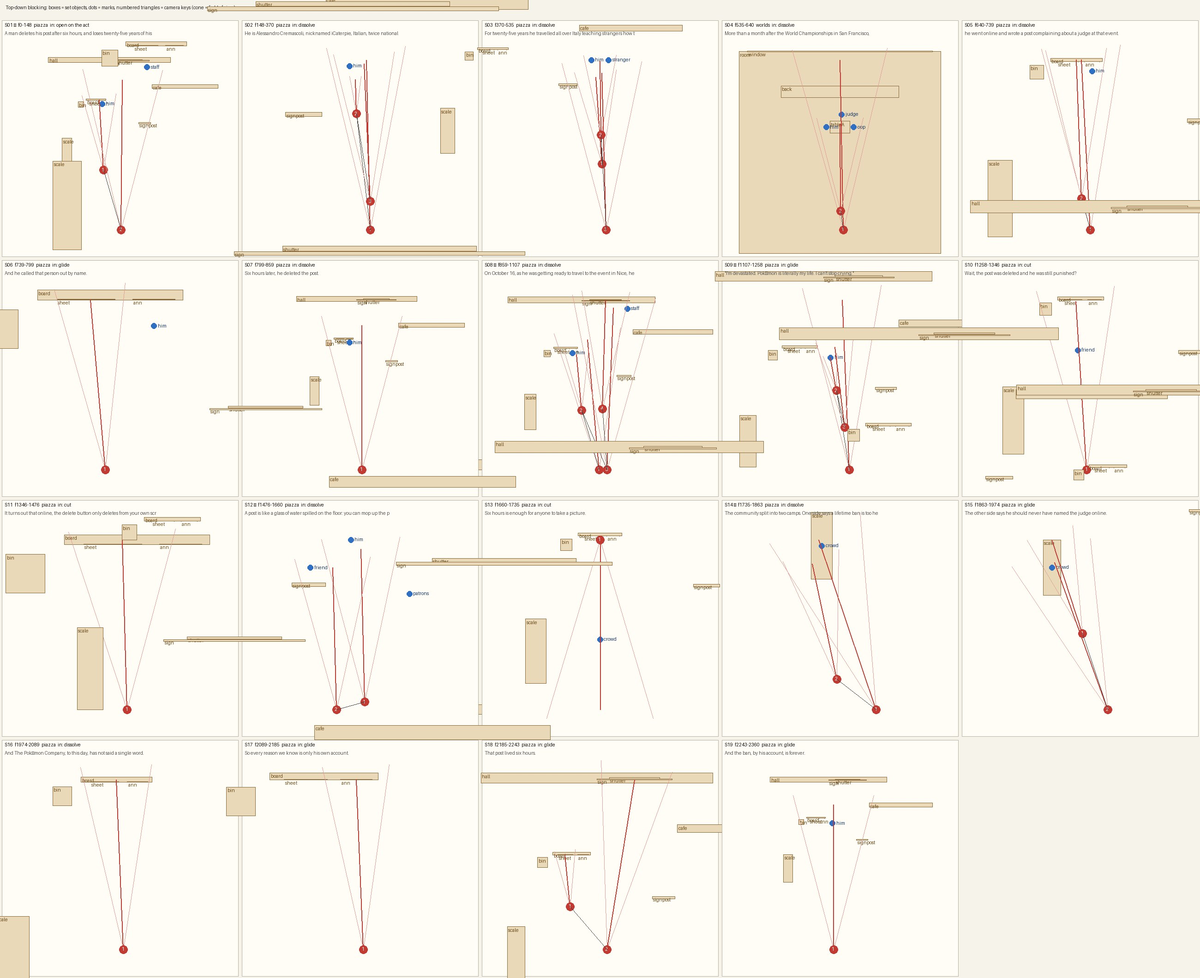
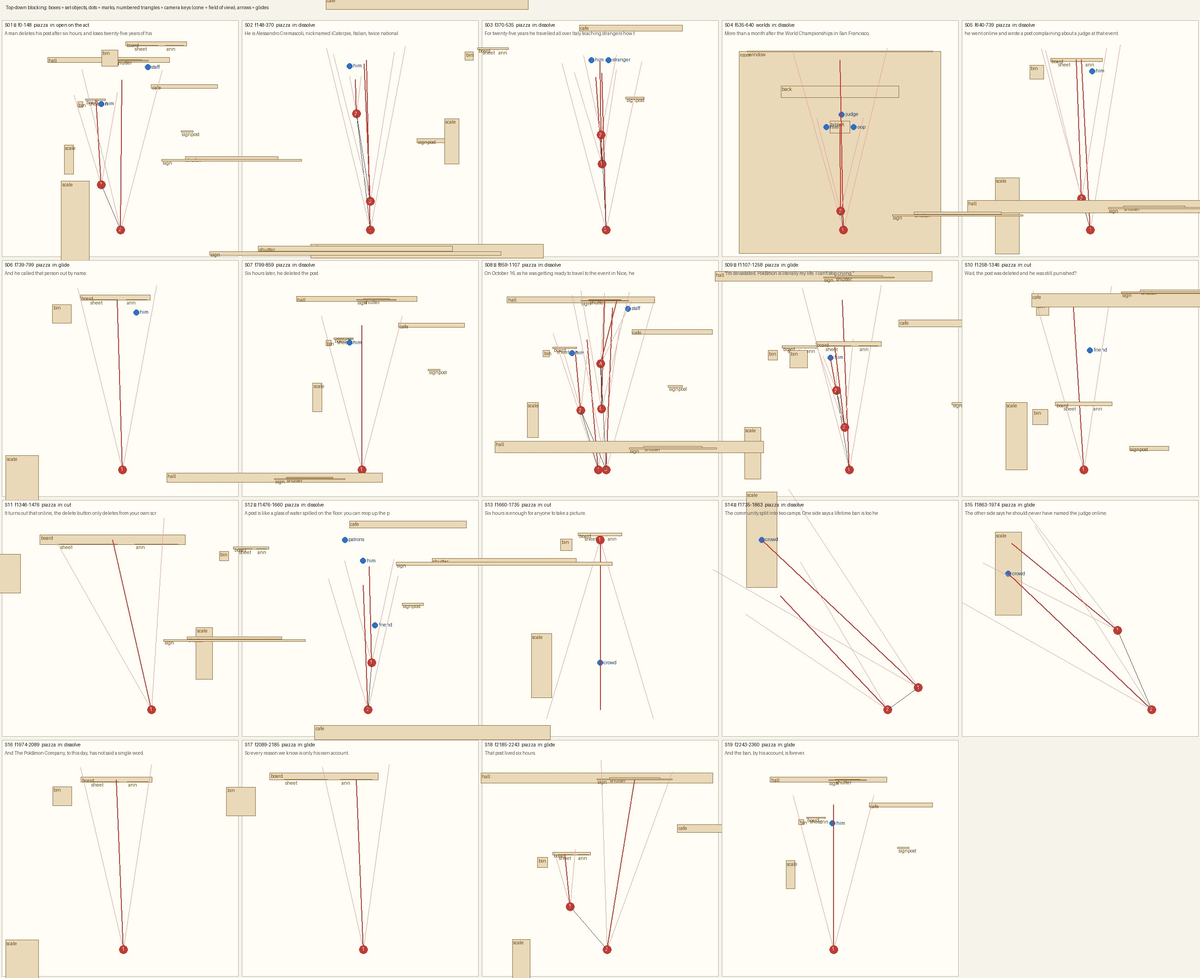
iCaterpie reel v1: sweep fixes (S06 step-aside, unlit paper/signs, padlock close-up, café gag re-staged, scale re-blocked, sun behind the lens, sharper board), notes, CLAUDE.md row

diff --git a/src/videos/caterpie/cast.ts b/src/videos/caterpie/cast.ts
@@ -466,7 +466,7 @@ const cafe3 = (out: Stage, cam: CamInfo, f: number) => {
 // S12: the glass, the puddle, the friend's wet prints, the patrons pointing
 import { glassAt, splashAt } from "./physics";
 const T3 = PZ.t3, PAT: [Who, V3][] = [["pat1", Pm(T3[0] - 0.5, 0, T3[1])], ["pat2", Pm(T3[0] + 0.5, 0, T3[1])]];
-const WALKA = (): V3 => Pm(5.3, 0, -1.95), WALKB = (): V3 => Pm(3.7, 0, 0.3);
+const WALKA = (): V3 => Pm(5.3, 0, -1.95), WALKB = (): V3 => Pm(4.3, 0, 0.3);
 const cafe12 = (out: Stage, cam: CamInfo, f: number) => {
   const sp = splashAt(), Pd = Pm(sp.p[0], 0.004, sp.p[2]);
   // the puddle: grows after the splash, shrinks under the napkin
@@ -507,7 +507,7 @@ const cafe12 = (out: Stage, cam: CamInfo, f: number) => {
     const tStep = STEP12 + (i * 0.38 / L2) * (WALK12[1] - STEP12); if (f < tStep) break;
     const fade = 1 - ramp(f - tStep, 80, 125); if (fade <= 0.02) continue;
     const sx = (i % 2 ? 0.08 : -0.08), q: V3 = [M[0] + ux * i * 0.38 - uz * sx, 0.003, M[2] + uz * i * 0.38 + ux * sx];
-    flat(out, `wet${i % 2}${Math.round(fade * 6)}`, (pp) => { pp.g.globalAlpha = fade; art2.wetPrint(pp); pp.g.globalAlpha = 1; }, q, 0.2, Math.atan2(ux, uz), 128, 128, 0.13);
+    flat(out, `wet${i % 2}${Math.round(fade * 6)}`, (pp) => { pp.g.globalAlpha = fade; art2.wetPrint(pp); pp.g.globalAlpha = 1; }, q, 0.3, Math.atan2(ux, uz), 128, 128, 0.2);
   }
   // the patrons at T2: grin, look down at the prints, point at the friend
   PAT.forEach(([who, Pp], i) => {

diff --git a/src/videos/caterpie/sets.ts b/src/videos/caterpie/sets.ts
@@ -497,7 +497,7 @@ export const buildSets = (root: THREE.Object3D): Sets => {
   { mesh(new THREE.BoxGeometry(0.6, 0.42, 0.22), [C("#a82a32"), C("#a82a32"), C("#a82a32"), C("#a82a32"), lamC(sideT), lamC(sideT)], suitcase, 0, 0.25, 0);
     mesh(new THREE.BoxGeometry(0.03, 0.34, 0.03), C("#2a2c33"), suitcase, -0.2, 0.62, 0); mesh(new THREE.BoxGeometry(0.03, 0.34, 0.03), C("#2a2c33"), suitcase, 0.2, 0.62, 0); mesh(new THREE.BoxGeometry(0.44, 0.03, 0.04), C("#2a2c33"), suitcase, 0, 0.79, 0);
     for (const x of [-0.24, 0.24]) mesh(new THREE.CylinderGeometry(0.04, 0.04, 0.03, 14), C("#1d1b22"), suitcase, x, 0.04, -0.09).rotation.x = Math.PI / 2; }
-  const tag = mesh(new THREE.PlaneGeometry(0.15, 0.09), tagM, suitcase, 0.36, 0.62, 0.0); tag.castShadow = false; (tag.material as THREE.Material).side = THREE.DoubleSide;
+  const tag = mesh(new THREE.PlaneGeometry(0.15, 0.09), tagM, suitcase, 0.27, 0.62, 0.115); tag.castShadow = false; (tag.material as THREE.Material).side = THREE.DoubleSide;
   // the water glass (S12, a rigid body), the espresso cup, the two trophies on T1
   const glass = mesh(new THREE.CylinderGeometry(0.04, 0.034, 0.13, 18), new THREE.MeshLambertMaterial({ color: "#bfe6ff" }), pz, 0, 0, 0); glass.castShadow = false;
   mesh(new THREE.CylinderGeometry(0.036, 0.036, 0.004, 18), new THREE.MeshLambertMaterial({ color: "#58a8f0" }), glass, 0, 0.03, 0).name = "water";

diff --git a/src/videos/caterpie/art2.ts b/src/videos/caterpie/art2.ts
@@ -207,7 +207,7 @@ export const puddle = (p: Pen) => {
   g.fillStyle = gr; g.beginPath(); for (let i = 0; i <= 24; i++) { const a = (i / 24) * Math.PI * 2, r = 112 + 12 * Math.sin(i * 2.7); g.lineTo(128 + Math.cos(a) * r, 128 + Math.sin(a) * r); } g.fill();
   g.fillStyle = "rgba(255,255,255,0.7)"; g.beginPath(); g.ellipse(96, 96, 30, 10, -0.5, 0, 7); g.fill();
 };
-export const wetPrint = (p: Pen) => { const g = p.g; g.fillStyle = "rgba(60,110,190,0.75)"; g.beginPath(); g.ellipse(64, 64, 40, 26, 0, 0, 7); g.fill(); g.fillStyle = "rgba(160,210,255,0.6)"; g.beginPath(); g.ellipse(52, 56, 12, 6, 0, 0, 7); g.fill(); };
+export const wetPrint = (p: Pen) => { const g = p.g; g.fillStyle = "rgba(40,95,200,0.92)"; g.beginPath(); g.ellipse(64, 64, 40, 26, 0, 0, 7); g.fill(); g.fillStyle = "rgba(160,210,255,0.6)"; g.beginPath(); g.ellipse(52, 56, 12, 6, 0, 0, 7); g.fill(); };
 export const tearDrop = (p: Pen) => { p.poly([[32, 4], [52, 40], [44, 58], [20, 58], [12, 40]], "#7fc4ff", 4); p.dot(26, 40, 5, "#ffffff"); };
 export const wetDot = (p: Pen) => { const g = p.g; g.fillStyle = "rgba(90,70,55,0.55)"; g.beginPath(); g.ellipse(32, 32, 28, 20, 0, 0, 7); g.fill(); };
 export const napkin = (p: Pen) => { p.poly([[20, 40], [180, 24], [196, 120], [30, 140]], "#ffffff", 6); p.stroke([[40, 60], [170, 50]], 4, "#d8322f"); };

diff --git a/videos/icaterpie-lifetime-ban/mkplan.py b/videos/icaterpie-lifetime-ban/mkplan.py
@@ -58,7 +58,7 @@ PLAN = {
  "piazza": PIAZZA, "worlds": WORLDS,
  "sets": {
   "piazza": {"origin": [0, 0, 0], "axes": "the civic hall's façade on z -6 faces +z; the board in front of it, left; the café on the right (front z -4, x 3.2..8.2); +z toward the lens",
-   "light": "day", "sun": [-35, 42], "open_sides": "sky",
+   "light": "day", "sun": [145, 48], "open_sides": "sky",   # the sun behind the lens: the façades we face are lit (bright palette)
    "objects": [
     {"id": "ground", "build": "new: warm cobbles x -12..12, z -14..14", "pos": [0, 0, 0], "size": [24, 0, 28]},
     {"id": "hall", "build": "new: civic hall façade 9.2 m wide x 7.4 m: cream stucco, terracotta cornice and pilasters, two upper windows with green shutters and flower boxes; arched door 2 x 3 m with a lit tournament room inside (tables, players, banner); the clock (r 0.7 m) at y 5.6; a bell turret to 9.6 m", "pos": [0, 3.7, -6.0], "size": [9.2, 7.4, 0.4]},
@@ -292,12 +292,12 @@ scene(id="S12", hero=True, f=[1476, 1660], set="piazza", light="day",
   action="f1500-1506 his right arm gestures and knocks the glass ('ly nước' f1508); it tips off the near edge and falls (rigid body), hits the cobbles f1519 ('đổ' f1519): a splash, a puddle spreads to r 0.32 m by f1530; the glass rolls and rests; f1522-1546 the friend walks in along the café front and steps in the puddle (f1533), then turns toward the lens; f1548-1556 he stands, f1558-1584 crouches and wipes with the napkin: the puddle shrinks to nothing ('lau' f1558); f1584-1650 the wet prints the friend left run from the puddle toward the lens to where he stands (a trail down the frame); the patrons look down at the prints, then point at his dripping legs ('nhìn thấy' f1627, 'giày ướt' f1641).",
   acting="Him: oops -> relieved (puddle gone) -> nervous. Friend: oblivious -> embarrassed. Patrons: grin, pointing.",
   cams=[k(1476, [4.15, 1.8, 1.9], [4.05, 1.0, -2.2], 46, why="the table, the glass, the terrace"),
-        k(1590, [4.0, 1.75, 3.9], [3.8, 0.6, -1.4], 50, glide=34, why="the wet prints to the friend, the patrons pointing")],
+        k(1545, [4.0, 1.75, 3.9], [3.8, 0.6, -1.4], 50, glide=40, why="the wet prints to the friend, the patrons pointing")],
   kicks=[[1519, 0.4]],
   marks=[{"who": "him", "at": P["him_t1"], "view": "front seated -> crouch", "pose": "knocks f1506; mops f1558-1584", "expr": "shock -> relief -> nervous"},
-         {"who": "friend", "at": [3.7, 0.3], "view": "side walking", "pose": "walks f1522-1580 through the puddle", "expr": "neutral -> nervous"},
+         {"who": "friend", "at": [4.3, 0.3], "view": "side walking", "pose": "walks f1522-1580 through the puddle", "expr": "neutral -> nervous"},
          {"who": "patrons", "at": P["t3"], "view": "front seated", "pose": "look down f1600; point f1627", "expr": "grin"}],
-  subjects=[{"n": "him head", "p": HIM_T1, "f": [1476, 1550]}, {"n": "puddle", "p": [4.05, 0.0, -1.95], "f": [1520, 1580]}, {"n": "friend head", "p": [3.7, HEAD, 0.3], "f": [1630, 1659]}, {"n": "pat2 head", "p": [3.5, SEATED, -3.35], "f": [1630, 1659]}],
+  subjects=[{"n": "him head", "p": HIM_T1, "f": [1476, 1550]}, {"n": "puddle", "p": [4.05, 0.0, -1.95], "f": [1520, 1580]}, {"n": "friend head", "p": [4.3, HEAD, 0.3], "f": [1630, 1659]}, {"n": "pat2 head", "p": [3.5, SEATED, -3.35], "f": [1630, 1659]}],
   physics="the glass: cannon-es cylinder, tipped from the table edge, 240 Hz bake; the splash a 6 f FX; the puddle a flat decal that grows then shrinks under the napkin; prints a fading decal per step.",
   light_mood="sunny terrace.", sound="glass knock f1506, a clink-splash f1519; footsteps; squeaky napkin f1558-1584; a wet squelch per step; patrons' giggle.",
   after="A dry spot where the puddle was; the wet prints fade by f1660.")

diff --git a/videos/icaterpie-lifetime-ban/direction.md b/videos/icaterpie-lifetime-ban/direction.md
@@ -27,8 +27,8 @@ Hard cuts: S10 ("Khoan đã"), the S11 phone POV, the S13 board's-eye view. Diss
 
 ### piazza
 - Origin in the shared world: [0, 0, 0]. Axes: the civic hall's façade on z -6 faces +z; the board in front of it, left; the café on the right (front z -4, x 3.2..8.2); +z toward the lens.
-- Light: day; sun az/el [-35, 42]. Open camera sides: sky.
-- Marks [x, z]: tear [-0.55, -2.68]; staff [2.85, -5.45]; sit [0.3, -2.55]; him_t1 [3.78, -2.45]; str_t1 [4.62, -2.45].
+- Light: day; sun az/el [145, 48]. Open camera sides: sky.
+- Marks [x, z]: tear [-0.55, -2.68]; staff [2.95, -5.45]; sit [0.3, -2.55]; him_t1 [3.78, -2.45]; str_t1 [4.62, -2.45].
 
 | id | build | centre [x, y, z] | size [x, y, z] m |
 |---|---|---|---|
@@ -41,8 +41,8 @@ Hard cuts: S10 ("Khoan đã"), the S11 phone POV, the S13 board's-eye view. Diss
 | ann | new: the announcement 44 x 58 cm (S08 on): TÔI BỊ CẤM VĨNH VIỄN KHỎI MỌI GIẢI ĐẤU CHÍNH THỨC — iCaterpie | [-0.55, 1.02, -2.955] | [0.44, 0.58, 0.002] |
 | bin | new: green litter bin r 20 cm, 74 cm | [-2.15, 0.37, -2.65] | [0.4, 0.74, 0.4] |
 | cafe | new: one-storey café front x 3.2..8.2 on z -4: terracotta wall, red-and-white striped awning 1.5 m deep, CAFFÈ lettering, window with cakes, door, lemon trees in pots; three round tables with chairs; Italian-flag bunting from the hall to the café | [5.7, 1.8, -4] | [5, 3.6, 0.3] |
-| signpost | new: wooden signpost with arrows STAZIONE, NICE 300 km, ROMA, MILANO | [2.65, 1.3, -1.25] | [0.9, 2.6, 0.1] |
-| scale | adapt:balance (Mudkip S15): a brass public scale, pivot post 1.5 m at (-3.2, 1.0), beam 1.8 m along z, two pans on chains; iron weights CẤM CẢ ĐỜI and NÊU TÊN TRỌNG TÀI (S14 on) | [-3.2, 0.8, 1] | [0.7, 1.6, 2.2] |
+| signpost | new: wooden signpost with arrows STAZIONE, NICE 300 km, ROMA, MILANO | [5.9, 1.3, -0.6] | [0.9, 2.6, 0.1] |
+| scale | adapt:balance (Mudkip S15): a brass public scale, pivot post 1.5 m at (-3.2, 1.0), beam 1.8 m along z, two pans on chains; iron weights CẤM CẢ ĐỜI and NÊU TÊN TRỌNG TÀI (S14 on) | [-3, 0.8, 1.5] | [0.7, 1.6, 2.2] |
 | houses | new: house fronts on the other three sides (ochre, terracotta, pale yellow), green shutters, balconies with flowers, a scooter, a fountain at (-3.8, 3.6), lamp posts; blue sky with inked clouds above the roofs | [0, 4, 0] | [24, 8, 28] |
 
 ### worlds
@@ -77,14 +77,14 @@ Hard cuts: S10 ("Khoan đã"), the S11 phone POV, the S13 board's-eye view. Diss
 - Build: new: the piazza: the board with the post sheet, the bin, the civic hall with the open door and the clock; the staff with the hook pole beside the door.
 - Blocking: Him at the tear mark (right of the sheet, facing +z); the staff at the staff mark beside the door, hook pole up at the shutter's bottom bar.
   - him at [-0.55, -2.68], front; reach f12, rip f17, crumple, toss f32-48; stern -> shock.
-  - staff at [2.85, -5.45], front; hook pole up; pulls f92-136; neutral.
+  - staff at [2.95, -5.45], front; hook pole up; pulls f92-136; neutral.
 - Action, against the words: f0-12 he glances at the sheet; f12-17 his left arm (screen left) reaches the sheet's right edge; f17 the rip (2 f before 'xóa' f19): the sheet tears off under the pin, the top corner stays pinned; f18-30 he crumples it into a ball; f32-48 he tosses it left into the bin (arc, lands f48, the bin rocks); f92 the staff hooks the shutter's bar and pulls: the shutter rattles down f100-136 and slams on 'đời' f137 (dust puff at the sill); he turns his head to it, shocked.
 - Acting: Him: stern -> shock on the slam. Staff: neutral.
 - Camera keys:
 
 | f | move | pos | look | fov | push %/f | blur px | why |
 |---|---|---|---|---|---|---|---|
-| 0 | open | [-0.45, 1.7, 2.3] | [-0.75, 1.25, -3] | 44 | 0.07 | 0 | him tearing the post off the board |
+| 0 | open | [-0.55, 1.9, 3.4] | [-0.95, 1.45, -3] | 46 | 0.07 | 0 | him tearing the post off the board |
 | 80 | glide 44 f | [0.9, 2.9, 6.8] | [1, 2.4, -4.5] | 48 | 0.05 | 0 | pull back: the board and the hall's shutter coming down |
 
 - Kicks (7 f): f17 strength 0.35; f137 strength 1.
@@ -198,13 +198,13 @@ Hard cuts: S10 ("Khoan đã"), the S11 phone POV, the S13 board's-eye view. Diss
 - Build: reuse the sheet: the name line at its bottom.
 - Blocking: Him at the tear mark, his arm at the sheet.
   - him at [-0.55, -2.68], front; writes the name f745-768; stern.
-- Action, against the words: f745-768 his marker writes the name in big red letters (we never see it legibly: scribble shapes); f770 a black censor bar slams over it (2 f squash) on 'tên' (f774); he underlines it twice f778-790.
+- Action, against the words: f745-768 his marker writes the name in big red letters (we never see it legibly: scribble shapes); f766-772 he steps aside to the right; f772 a black censor bar slams over it (2 f squash) on 'tên' (f774); he looks at it, satisfied.
 - Acting: Him: stern.
 - Camera keys:
 
 | f | move | pos | look | fov | push %/f | blur px | why |
 |---|---|---|---|---|---|---|---|
-| 739 | open | [-1.05, 1.35, -1.2] | [-1.2, 1.12, -2.95] | 38 | 0.06 | 0 | the name on the sheet |
+| 739 | open | [-0.85, 1.4, 0.7] | [-0.95, 0.9, -2.95] | 42 | 0.06 | 0 | the name on the sheet, him writing it |
 
 - Kicks (7 f): f770 strength 0.4.
 - Physics & FX: none.
@@ -242,7 +242,7 @@ Hard cuts: S10 ("Khoan đã"), the S11 phone POV, the S13 board's-eye view. Diss
 - Build: reuse the piazza; the suitcase with a NICE luggage tag; the announcement sheet; the padlock and the sign.
 - Blocking: Him wheels the suitcase in from the right to the tear mark; the staff at the door.
   - him at [-0.55, -2.68], side walking -> front; wheels f862-930; pins f998; sad.
-  - staff at [2.85, -5.45], front; pulls f1003-1020, padlock f1030-1036, sign f1044-1058; neutral.
+  - staff at [2.95, -5.45], front; pulls f1003-1020, padlock f1030-1036, sign f1044-1058; neutral.
 - Action, against the words: f862-930 he wheels the suitcase from (1.9, -2.3) to the tear mark; f945-962 the NICE tag swings on the handle ('Nice' f958); f975-995 he takes the announcement from his jacket and pins it (pin f998, 'báo tin' f982-988); f1003-1020 the staff pulls the shutter down, it slams on 'cấm' f1022; f1030-1036 the staff snaps the padlock shut ('vĩnh viễn' f1036); f1044-1058 he hangs the sign CẤM VĨNH VIỄN on the shutter's hasp; f1062-1095 the camera rises to the sign above the door: POKÉMON · GIẢI ĐẤU CHÍNH THỨC.
 - Acting: Him: tired, sad. Staff: neutral, businesslike.
 - Camera keys:
@@ -251,7 +251,8 @@ Hard cuts: S10 ("Khoan đã"), the S11 phone POV, the S13 board's-eye view. Diss
 |---|---|---|---|---|---|---|---|
 | 859 | open | [1.1, 2, 4.6] | [0.4, 1.6, -3.5] | 46 | 0.06 | 0 | him and the suitcase crossing to the board |
 | 940 | glide 22 f | [0, 1.45, 0.9] | [-0.3, 0.9, -2.6] | 40 | 0.06 | 0 | the NICE tag, the announcement pinned |
-| 1004 | glide 26 f | [1.6, 2.5, 4.6] | [2, 2, -5.5] | 46 | 0.06 | 0 | the shutter slams, the padlock, the sign |
+| 1000 | glide 22 f | [1.6, 2.5, 4.6] | [2, 2, -5.5] | 46 | 0.06 | 0 | the shutter slams |
+| 1026 | glide 10 f | [1.25, 1.55, -2] | [2.25, 1, -5.9] | 40 | 0.06 | 0 | the padlock, the sign |
 | 1060 | glide 30 f | [1.3, 2.9, 0.8] | [1.5, 3.3, -6] | 40 | 0.06 | 0 | the sign over the shut door |
 
 - Kicks (7 f): f1022 strength 1; f1036 strength 0.3.
@@ -291,7 +292,7 @@ Hard cuts: S10 ("Khoan đã"), the S11 phone POV, the S13 board's-eye view. Diss
 - Set: piazza. Light: day.
 - Build: reuse the board: the torn corner, the announcement.
 - Blocking: Friend standing in front of the board at (-1.1, -1.3), facing +z.
-  - friend at [-1.1, -1.3], front; points f1262; scratches f1300; shrugs f1334; nervous.
+  - friend at [-0.6, -1.3], front; points f1262; scratches f1300; shrugs f1334; nervous.
 - Action, against the words: f1258 Huh; f1262-1290 the friend points back at the torn corner; f1300-1325 scratches his head; f1334 shrugs on 'phạt?'.
 - Acting: Friend: puzzled.
 - Camera keys:
@@ -319,7 +320,7 @@ Hard cuts: S10 ("Khoan đã"), the S11 phone POV, the S13 board's-eye view. Diss
 
 | f | move | pos | look | fov | push %/f | blur px | why |
 |---|---|---|---|---|---|---|---|
-| 1346 | open | [-1.1, 1.62, -1.25] | [-1.15, 1.22, -3] | 56 | 0.03 | 0 | the phone, the bare board behind |
+| 1346 | open | [-0.6, 1.62, -1.25] | [-1, 1.22, -3] | 56 | 0.03 | 0 | the phone, the bare board behind |
 
 - Kicks (7 f): none.
 - Physics & FX: none (screen content).
@@ -335,16 +336,16 @@ Hard cuts: S10 ("Khoan đã"), the S11 phone POV, the S13 board's-eye view. Diss
 - Build: reuse the terrace T1/T2: a tall water glass, a napkin; the patrons at T2.
 - Blocking: Him seated at T1; the friend walks across the terrace right to left; two patrons seated at T2.
   - him at [3.78, -2.45], front seated -> crouch; knocks f1506; mops f1558-1584; shock -> relief -> nervous.
-  - friend at [2.7, -1.7], side walking; walks f1522-1580 through the puddle; neutral -> nervous.
-  - patrons at [5.35, -1], front seated; look down f1600; point f1627; grin.
-- Action, against the words: f1500-1506 his right arm gestures and knocks the glass ('ly nước' f1508); it tips off the near edge and falls (rigid body), hits the cobbles f1519 ('đổ' f1519): a splash, a puddle spreads to r 0.32 m by f1530; the glass rolls and rests; f1522-1546 the friend walks through the puddle (one step in it f1533); f1548-1556 he stands, f1558-1584 crouches and wipes with the napkin: the puddle shrinks to nothing ('lau' f1558); f1584-1650 the wet prints the friend left run across the cobbles to where he stands; the patrons look down at the prints, then point at his dripping legs ('nhìn thấy' f1627, 'giày ướt' f1641).
+  - friend at [4.3, 0.3], side walking; walks f1522-1580 through the puddle; neutral -> nervous.
+  - patrons at [3, -3.35], front seated; look down f1600; point f1627; grin.
+- Action, against the words: f1500-1506 his right arm gestures and knocks the glass ('ly nước' f1508); it tips off the near edge and falls (rigid body), hits the cobbles f1519 ('đổ' f1519): a splash, a puddle spreads to r 0.32 m by f1530; the glass rolls and rests; f1522-1546 the friend walks in along the café front and steps in the puddle (f1533), then turns toward the lens; f1548-1556 he stands, f1558-1584 crouches and wipes with the napkin: the puddle shrinks to nothing ('lau' f1558); f1584-1650 the wet prints the friend left run from the puddle toward the lens to where he stands (a trail down the frame); the patrons look down at the prints, then point at his dripping legs ('nhìn thấy' f1627, 'giày ướt' f1641).
 - Acting: Him: oops -> relieved (puddle gone) -> nervous. Friend: oblivious -> embarrassed. Patrons: grin, pointing.
 - Camera keys:
 
 | f | move | pos | look | fov | push %/f | blur px | why |
 |---|---|---|---|---|---|---|---|
 | 1476 | open | [4.15, 1.8, 1.9] | [4.05, 1, -2.2] | 46 | 0.06 | 0 | the table, the glass, the terrace |
-| 1590 | glide 34 f | [3.4, 1.75, 2.1] | [3.3, 0.85, -1.7] | 48 | 0.06 | 0 | the wet prints to the friend, the patrons pointing |
+| 1545 | glide 40 f | [4, 1.75, 3.9] | [3.8, 0.6, -1.4] | 50 | 0.06 | 0 | the wet prints to the friend, the patrons pointing |
 
 - Kicks (7 f): f1519 strength 0.4.
 - Physics & FX: the glass: cannon-es cylinder, tipped from the table edge, 240 Hz bake; the splash a 6 f FX; the puddle a flat decal that grows then shrinks under the napkin; prints a fading decal per step.
@@ -359,7 +360,7 @@ Hard cuts: S10 ("Khoan đã"), the S11 phone POV, the S13 board's-eye view. Diss
 - Set: piazza. Light: day.
 - Build: reuse the piazza looking +z from the board's face: the crowd, the house fronts, the fountain.
 - Blocking: Five passers-by in front of the board (z -1.5..-0.2), facing the board (the lens), phones held up, screens to them.
-  - crowd at [-1, 0.6], front; phones up, flash; grin / shock.
+  - crowd at [-1, 1.4], front; phones up, flash; grin / shock.
 - Action, against the words: f1662-1700 they gather; flashes from their phones at f1702, f1712, f1718, f1723, f1729 ('chụp lại' f1723).
 - Acting: Crowd: curious, gossiping.
 - Camera keys:
@@ -381,15 +382,15 @@ Hard cuts: S10 ("Khoan đã"), the S11 phone POV, the S13 board's-eye view. Diss
 - Set: piazza. Light: day.
 - Build: reuse; the scale stands at (-3.2, 1.0); the two iron weights on the cobbles by the pans.
 - Blocking: Six people in a group beside the scale; three walk to the near pan, three to the far pan.
-  - crowd at [-3.2, 1], side walking -> front; split f1740-1778; lift f1800-1838; stern.
+  - crowd at [-3, 1.5], side walking -> front; split f1740-1778; lift f1800-1838; stern.
 - Action, against the words: f1740-1778 the group splits (three walk toward the lens, three away); f1800-1838 two of the near side lift the CẤM CẢ ĐỜI weight (both arms) and drop it on the near pan f1840; f1845 ('quá nặng') the pan slams to the ground, the beam tilts hard; the far pan rises; they throw up their arms.
 - Acting: Near side: indignant. Far side: arms folded.
 - Camera keys:
 
 | f | move | pos | look | fov | push %/f | blur px | why |
 |---|---|---|---|---|---|---|---|
-| 1735 | open | [-1.4, 2.5, 6.4] | [-3.3, 1.2, 0.8] | 48 | 0.06 | 0 | the crowd by the scale |
-| 1795 | glide 30 f | [-2.7, 1.95, 5.4] | [-3.5, 0.85, 1.6] | 44 | 0.06 | 0 | the near pan and the heavy weight |
+| 1735 | open | [0.6, 2.7, 4.9] | [-3, 0.95, 1.5] | 46 | 0.06 | 0 | the crowd by the scale |
+| 1795 | glide 30 f | [-0.1, 1.9, 5.4] | [-2.56, 0.8, 2.8] | 44 | 0.06 | 0 | the near pan and the heavy weight |
 
 - Kicks (7 f): f1845 strength 0.8.
 - Physics & FX: the beam: a damped pendulum about the pivot; the weight lands with no bounce (iron), the pan hits the ground stop.
@@ -404,15 +405,15 @@ Hard cuts: S10 ("Khoan đã"), the S11 phone POV, the S13 board's-eye view. Diss
 - Set: piazza. Light: day.
 - Build: reuse.
 - Blocking: Far side at the far pan.
-  - crowd at [-3.2, 1], front; lift f1880-1922; stern.
+  - crowd at [-3, 1.5], front; lift f1880-1922; stern.
 - Action, against the words: f1880-1922 two of the far side lift their weight; f1925 it lands on the far pan; f1928-1960 the beam swings back to level, overshoots once and settles; both sides glare at each other f1960-1974.
 - Acting: Far side: stern. Near side: annoyed.
 - Camera keys:
 
 | f | move | pos | look | fov | push %/f | blur px | why |
 |---|---|---|---|---|---|---|---|
-| 1863 | open | [-2, 2.3, 3.6] | [-3.2, 1.3, -0.1] | 44 | 0.06 | 0 | the far side and their weight |
-| 1932 | glide 26 f | [-1, 2.6, 6.6] | [-3.1, 1.3, 0.8] | 48 | 0.06 | 0 | the scale level, the two camps |
+| 1863 | open | [-0.1, 2.2, 3] | [-2.9, 1, 0.7] | 44 | 0.06 | 0 | the far side and their weight |
+| 1932 | glide 26 f | [0.8, 2.8, 5.1] | [-3, 0.95, 1.5] | 48 | 0.06 | 0 | the scale level, the two camps |
 
 - Kicks (7 f): f1925 strength 0.4.
 - Physics & FX: beam: damped pendulum back to level (period 1.1 s, damping 0.35).
@@ -433,7 +434,7 @@ Hard cuts: S10 ("Khoan đã"), the S11 phone POV, the S13 board's-eye view. Diss
 
 | f | move | pos | look | fov | push %/f | blur px | why |
 |---|---|---|---|---|---|---|---|
-| 1974 | open | [-0.85, 2.2, 0.6] | [-1, 2.12, -3] | 38 | 0.09 | 0 | the empty official frame |
+| 1974 | open | [-0.85, 2.45, 0.6] | [-1, 2.42, -3] | 38 | 0.09 | 0 | the empty official frame |
 
 - Kicks (7 f): none.
 - Physics & FX: the crow: flap-glide in, a 2 f squash on landing.

diff --git a/videos/icaterpie-lifetime-ban/notes.md b/videos/icaterpie-lifetime-ban/notes.md
@@ -1,3 +1,19 @@
 # Caterpie: notes
 
 Composition `CaterpieReel` · code `src/videos/caterpie/` · assets `public/caterpie/`
+
+## Build log (v1, 26 Nov 2026)
+- VO "TCG veteran.mp3" saved as `voice.mp3`; script unchanged from `script.md`. `vo_words.py` (with `../.venv/bin/python3`): 274 words, VO ends 77.68 s = f2330; reel 2360 f. Every `check:` line was a digit or a spelling (Pokémon/Pokemon, phạt/phát).
+- The user said "edit this now using updated instructions" and asked for no subagents, so beats went straight to direction and build with no beat review, all in this session.
+- Facts as in `facts.md`. No likenesses (generic house cartoons); the judge is never named or shown legibly (scribble + censor bar); the ban's cause stays "theo lời anh"; The Pokémon Company is an empty official frame, not a villain.
+- Visual law: **the internet is the piazza's notice board** (MẠNG XÃ HỘI): posting = pinning a sheet, deleting = tearing it off, which leaves a torn corner on the pin for the rest of the reel. Copies live in other people's phones (the S11 phone POV: the full post on the screen, the bare board behind). Official events = the civic hall behind the board; staff pull its red shutter down, padlock it and hang CẤM VĨNH VIỄN. Six hours = the façade clock spinning.
+- Plan: `mkplan.py` → `plan.json` (19 scenes, 2 sets: the Italian piazza and the Worlds hall in San Francisco; 0 check errors; warnings: brief caption-band touches and two fast glides, S08 f1007 and the S18 tilt to the clock). Hard cuts: S10 (Khoan đã), S11 (phone POV), S13 (the board's view). `direction.md`, `plan_view.jpg`. Head points in the plan are 1.85 m standing / 1.5 m seated (these figures' heads sit higher than the old 1.55).
+- Cards: `caterpie151` (Scarlet & Violet 151 Caterpie 010, 733x1024, upscaled 2x Lanczos + light sharpen in `public/caterpie/cards/`) is the hero, held up to the lens on "iCaterpie" (~45% of the frame width, f252-300); also on the Worlds playmat, the café table and in his hands in S09. Base Set `caterpie` added to the library too. Table cards: pika151, zard151, sprigatito, fuecoco, quaxly, pawmi, eevee, pikachu, charmander, squirtle, bulbasaur.
+- Base: the Gengar v2 build (`BASE=gengar new_reel.sh`); sets, cast, art2, world, story rewritten; `physics.ts` bakes the S12 water glass (cannon-es, 240 Hz). Engine: one additive option, `Outfit.chestFit` (squeezes chest lettering to the torso; off by default, older reels unchanged) so JUDGE and STAFF read.
+- Sets: piazza = cobbles, the civic hall (cream stucco, pilasters, cornice, green-shuttered windows with flower boxes, the clock, a bell turret, the tournament room visible through the open door), the notice board with its roof and header, the café (terracotta, striped awning, CAFFÈ, cakes in the window, three tables), house fronts on three sides, a fountain, a red scooter, lamp posts, a signpost, Italian-flag bunting, cypress hills, a blue cloudy sky; the public scale with two crates and two iron weights. Worlds = teal carpet, cream walls, a glass wall with the Golden Gate panorama, WORLDS 2026 / SAN FRANCISCO banners, three match tables with real-card playmats, a brass rail, spectators.
+- Captions: `mkcaptions.py` reads `phrases.txt` (66 phrases, longest 29 characters). Sound: `audio/caterpie_audio.py` (-14.7 LUFS, TP -1.07; memes: Censor Beep on the name, camera shutter on every photo, Huh on "Khoan đã", Emoji Laugh for the café patrons, Instagram Thud under the scale slam, Crow caw).
+- Sweep fixes before v1: pots and the signpost were hiding the staff (moved); bunting was oversized and crossed the hall (two high lines, smaller flags); shutter made unlit so its red stays bright; S01 opened too tight (pulled back to show the bin); S03 tables re-laid (T2 blocked the teaching shot); JUDGE was clipped (chestFit); he covered the sheet while writing (he now steps aside before the censor bar lands); paper, the announcement and the ban sign unlit so they read white; a close key on the padlock and the sign (S08 f1026); the NICE tag moved off his body; the friend moved clear of the torn corner (S10) and the phone POV moved with him (S11); the café gag re-staged so the wet prints run toward the lens and the patrons at T3 point at him; S13 crowd spread; the fountain moved out of the scale shot; the scale re-blocked (lifters either side of their weight, weights on crates, pans hang 0.9 m so the slam tilts 39 deg, not 72); board texture doubled (sharp at 1440); the crow made bigger; the piazza sun put behind the lens so the façades we face are lit.
+
+### Open
+- Seen only as stills: check in motion the rip and the paper ball's throw, the shutter's fall and bounce, the padlock, the glass's tip and roll, the friend's walk into the puddle, the scale's slam and the beam's damped swing back, the crow's landing, the clock spins.
+- S12 f1550-1575: the friend walks close past the lens while the camera pulls back; look at it in motion.

diff --git a/CLAUDE.md b/CLAUDE.md
@@ -41,7 +41,7 @@ Account skills they call: `vn-news-script` (the script), `story-reel-director` (
 ## Layout
 | Path | What |
 |---|---|
-| `src/index.ts`, `src/Root.tsx` | Register the compositions: `JirachiReel`, `FossilReel`, `MonacoReel`, `ChocoboReel`, `FanaticsReel`, `MudkipReel`, `AtticReel`, `GpsReel`, `PsaReel`, `LucasReel`, `TcgplayerReel`, `GengarReel`, `GoldenrodReel`, `ChicagoReel` (each with a `…Captions` comp), `BridgeShort`, `CharTest` |
+| `src/index.ts`, `src/Root.tsx` | Register the compositions: `JirachiReel`, `FossilReel`, `MonacoReel`, `ChocoboReel`, `FanaticsReel`, `MudkipReel`, `AtticReel`, `GpsReel`, `PsaReel`, `LucasReel`, `TcgplayerReel`, `GengarReel`, `GoldenrodReel`, `CaterpieReel`, `ChicagoReel` (each with a `…Captions` comp), `BridgeShort`, `CharTest` |
 | `src/engine/` | The shared engine (toon characters, ink, shading, paint, lights, grade, lens blur, geometry). New reels import it; changes must be additive |
 | `src/videos/<reel>/` | One folder per reel: that reel's story, sets, cast, art, captions and `Reel.tsx` (see `library/INDEX.md`). The newest base is `monaco/` (channel logo, anti-flicker `box()` helper, near plane 0.12; `new_reel.sh` copies it). Attic, GPS, PSA and Bridge still hold their own engine copies |
 | `src/enzo/` | Enzo's `Title2` titles and the Bolota font loader |
@@ -57,6 +57,7 @@ Account skills they call: `vn-news-script` (the script), `story-reel-director` (
 | Reel | Composition | Video folder | Status |
 |---|---|---|---|
 | Chicago shop (Old Skool TCG: sells, gets paid, steals 4 cards) | `ChicagoReel` (2440 f) | `videos/chicago-mew-theft/` | v1 built to the 25 Nov quality bar, ready to render (26 Nov 2026) |
+| iCaterpie lifetime ban (a deleted post, a lifetime ban, Worlds SF) | `CaterpieReel` (2360 f) | `videos/icaterpie-lifetime-ban/` | v1 built to the 25 Nov quality bar, ready to render (26 Nov 2026) |
 | Goldenrod heist (masked burglars, a rented minivan, Justice IL) | `GoldenrodReel` (2370 f) | `videos/goldenrod-heist/` | v1 built, ready to render (22 Nov 2026) |
 | Gengar unpaid ($576k Pristine 10, marked unpaid) | `GengarReel` (2420 f) | `videos/gengar-unpaid/` | v2 re-edited to the 25 Nov quality bar (real CGC slab photos), ready to render (25 Nov 2026) |
 | Lucas DeRuyter's big collection ("easy as candy") | `LucasReel` (2430 f) | `videos/lucas-big-collection/` | v1 built, ready to render (22 Nov 2026) |
